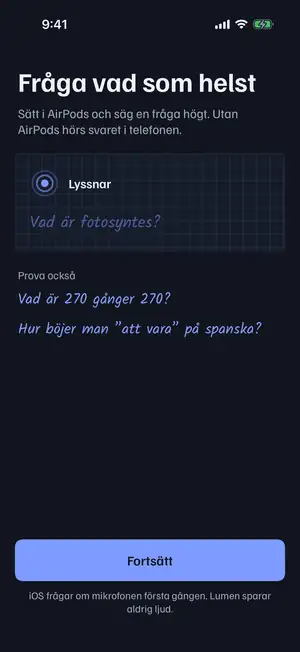
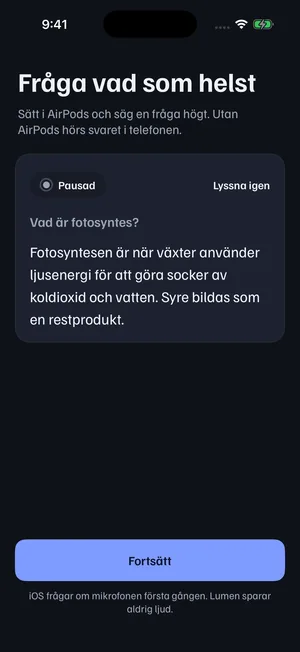
Kelly Ke20: A26 approved (R1–R6 closed; the practice exam lacks the listening badge), Ke18 step 1 uses the app's new Första frågan

diff --git a/site/index.html b/site/index.html
@@ -722,7 +722,7 @@
     <h2 id="start-h">Så kommer du igång</h2>
     <p class="lead">Tre steg. Sedan ligger telefonen i fickan och du pluggar med rösten.</p>
     <ol class="steps">
-      <li class="paper"><h3>Tryck Testa nu och fråga högt</h3><p>Inget konto. Sätt i AirPods och fråga vad som helst. Svaret hörs i örat.</p><picture><source media="(prefers-color-scheme: dark)" srcset="img/fraga-dark.webp"><img class="shot" src="img/fraga-light.webp" width="300" height="652" loading="lazy" alt="Skärmen Fråga vad som helst i appen: Lumen lyssnar, med exempelfrågan Vad är fotosyntes?"></picture></li>
+      <li class="paper"><h3>Tryck Testa nu och fråga högt</h3><p>Inget konto. Sätt i AirPods och fråga vad som helst. Svaret hörs i örat.</p><picture><source media="(prefers-color-scheme: dark)" srcset="img/fraga-dark.webp"><img class="shot" src="img/fraga-light.webp" width="300" height="652" loading="lazy" alt="Skärmen Fråga vad som helst i appen: frågan Vad är fotosyntes? och svaret i ett kort, med knappen Fortsätt."></picture></li>
       <li class="paper"><h3>Säg vilket prov du har</h3><p>Till exempel <span class="hand">”Jag har prov i biologi på fredag”</span>. Du kan också välja ämne och datum.</p><picture><source media="(prefers-color-scheme: dark)" srcset="img/steg1-dark.webp"><img class="shot" src="img/steg1-light.webp" width="300" height="652" loading="lazy" alt="Skärmen Lägg till prov i appen med årskurs, ämne och datum."></picture></li>
       <li class="paper"><h3>Säg ”Lumen, förhör mig”</h3><p>Lumen ställer frågor om det du pluggar och svarar på dina. Vill du bara ha svar trycker du Få A-svar till provet.</p><picture><source media="(prefers-color-scheme: dark)" srcset="img/steg3-dark.webp"><img class="shot" src="img/steg3-light.webp" width="300" height="652" loading="lazy" alt="Provläget lyssnar i appen: Ställ en fråga när du vill."></picture></li>
     </ol>

diff --git a/docs/STATUS.md b/docs/STATUS.md
@@ -31,7 +31,7 @@ Last updated: 2026-11-08 by Angela (builder).
 - **Provläge (Angela, D36/D38) and Målbeskrivning + Egna kommandon (Angela, D37/D39):** hands-free tutor session (VAD end-of-turn 0.8 s, barge-in, recogniser gated while we speak, auto-end after 10 min releases the microphone, `mode: tutor` with the whole session's `recent_qa`, retried as `push_to_talk` while the backend rejects `tutor`); course goals compact ≤ 1 500 chars as `goals`; keyword commands matched STT-tolerantly and sent as `commands`, spoken "spara kommando …" stored and confirmed. Green in CI (run 41817986402, 249 app tests); **untested on device**; the backend (answer v8) still rejects `mode: tutor` (400, the app falls back to `push_to_talk`) and ignores the new `goals`/`commands` fields until Kevin's D36/D37 tasks land, so the tutor style and command effects are not yet observable. Also the D35 setting *Svarslängd* (Kort / Anpassad / Utförlig → backend `length`, Settings → Answers), green in run 41819618434 (250 app tests). Reports: `reports/2026-11-04-1214-angela-plugglage.md`, `reports/2026-11-04-1214-angela-goals-commands.md`; checklist §3r–3s.
 - **Easy switch to music (Angela, D33):** Pause/Resume on the listening screen, Lock Screen (Live Activity) and a Control; pause releases the audio session, interruptions never auto-resume (also with `shouldResume`), nothing is spoken while paused. New extension `LumenControls`. Green in CI (run 41806325518); **untested on device**, and the Control's process and Lock Screen resume are untested assumptions. Report: `reports/2026-11-04-1130-angela-d33-music-switch.md`.
 - **Queue D44–D58 (Angela, 2026-11-06):** Historik and Minne on the phone (D49/D56), Scribe as default recogniser with Apple as fallback (D44), Mikrofon per mode + comparison in Diagnostics (D55), mode picker with Intervjuläge and Rizzläge on the StudyMachine (D42/D43), report + Feedback & förslag + opt-in sharing (D57), Siri phrases, Start control and spoken pause (D58), checklist §3t–3z. Also fixed: `goals`/`commands` were sent where the backend does not read them. Green in CI (run 42259754856, 315 app tests). **Nothing has run on a device.** `/feedback` and `/shared-history` are not deployed yet. **Open for Aron:** the discreet indicator was not built (see report, Concerns). Report: `reports/2026-11-06-1830-angela-queue-d49-d58.md`.
-- **Offentlig demosida (Kelly, D62/D66/D86):** Kelly: **Ke19 klar:** demorutan har D97:s två val (Förhör mig = tre Provlägesfrågor med inspelade svar utan anrop, Få A-svar till provet = livedemon, förvald); Lighthouse 99/100/100/100, 1 491 kB, bara Chromium; `reports/2026-11-10-1046-kelly-ke19-d97-pa-sidan.md`. **Ke9 klar** (en väg på demosidan: demo → "Så kommer du igång" i 3 steg → en knapp; mobil 8 533 → 4 226 px, Lighthouse 100; designunderlag för appen i `docs/design/enkel-start.md` till A18; `reports/2026-11-10-0735-kelly-ke9-enkel-start.md`; live, Pages-deploy grön). Ke10 klar (underlag för Start utan prov, Lyssnar och Mikrofon nekad; `reports/2026-11-10-0735-kelly-ke10-vanliga-vagen.md`). Ke11 klar (FAQ synlig på sidan, samma ord i demons rad; `reports/2026-11-10-0740-kelly-ke11-ord-faq.md`). Ke12b klar (designspec app mot sida i `docs/design/designspec.md`; `reports/2026-11-10-0738-kelly-ke12b-designspec.md`). **Ke12 klar:** nytt designsystem `docs/design/SYSTEM.md` (ersätter D86:s skollook i appen) med 3 loggförslag och 5 skärmar före/efter till A18; `reports/2026-11-10-0746-kelly-ke12-proffsig-pluggapp.md`. Ke17 klar: A18 **godkänd med rättelser** (Start godkänd; R1–R4 till Angela före nästa T3), `reports/2026-11-10-0805-kelly-granskning-a18.md`. Ke16 klar: annonserna i nya systemet (`docs/marketing/annonser/system/`); `reports/2026-11-10-0802-kelly-ke16-annonser-system.md`. Ke15 klar: ny delningsbild `og-lumen.png`, site 1 487 kB; `reports/2026-11-10-0800-kelly-ke15-delningsbild.md`. Ke14 klar: SYSTEM.md del 2 (fem skärmar till A18/A22); `reports/2026-11-10-0759-kelly-ke14-system-del2.md`. Ke13 klar: D97 två knappar på provkortet i SYSTEM.md och skisserna; `reports/2026-11-10-0754-kelly-ke13-d97-tva-knappar.md`. Ke13b klar: sidan i SYSTEM.md (ingen handstil eller rutpapper, Kalam bort, 1 699 kB); `reports/2026-11-10-0751-kelly-ke13-sida-nya-systemet.md`. Ke3 klar (steg med T3-bilder, animation, FAQ, sitemap). Ke2 klar (fokus till svaret efter en fråga, träffytor 44 px, taket för tal provat live med fejkad mikrofon; `reports/2026-11-08-1815-kelly-ke2-oscar-fynd.md`). Ke1 klar (riktiga Provläge-exempel med inspelat ljud, väntelisterad efter svaret, svepbara exempelfrågor på mobil, inga layoutskift, delningsbild och favicon; 61 kB vid start; `reports/2026-11-08-1640-kelly-ke1-demo.md`). Sidan är **publicerad** på https://aronstenlund-code.github.io/aronstenlund-airpods-ai/ (Pages på 2026-11-08, run 42486945392: check och deploy gröna). Live verifierat i Chromium: en riktig fråga gav svar (signup, answer, tts 200), typsnitten laddas och CORS tillåter adressen. Appens design (D86) med platshållare för foto. Ändringar i `site/` publiceras av sig själva vid push till main. **Ej testad på iPhone, Safari eller AirPods.** Kvar: riktigt foto. Rapporter: `reports/2026-11-08-1250-kelly-demo-publish.md`, `reports/2026-11-08-1450-kelly-demo-d86.md`.
+- **Offentlig demosida (Kelly, D62/D66/D86):** Kelly: **Ke20 klar:** A26 **godkänd** (R1–R6 stängda i simulatorbilder). Nytt fynd: Övningsprovet (A16) visar ingen lyssnarbricka (skyddsräcke), plus 3 mindre; `reports/2026-11-10-1133-kelly-granskning-a26.md`. Ke18 del 1: sidans steg 1 har appens nya Första frågan; steg 2–3 väntar på bilderna `addExam` och Provläget lyssnar. **Ke19 klar:** demorutan har D97:s två val (Förhör mig = tre Provlägesfrågor med inspelade svar utan anrop, Få A-svar till provet = livedemon, förvald); Lighthouse 99/100/100/100, 1 491 kB, bara Chromium; `reports/2026-11-10-1046-kelly-ke19-d97-pa-sidan.md`. **Ke9 klar** (en väg på demosidan: demo → "Så kommer du igång" i 3 steg → en knapp; mobil 8 533 → 4 226 px, Lighthouse 100; designunderlag för appen i `docs/design/enkel-start.md` till A18; `reports/2026-11-10-0735-kelly-ke9-enkel-start.md`; live, Pages-deploy grön). Ke10 klar (underlag för Start utan prov, Lyssnar och Mikrofon nekad; `reports/2026-11-10-0735-kelly-ke10-vanliga-vagen.md`). Ke11 klar (FAQ synlig på sidan, samma ord i demons rad; `reports/2026-11-10-0740-kelly-ke11-ord-faq.md`). Ke12b klar (designspec app mot sida i `docs/design/designspec.md`; `reports/2026-11-10-0738-kelly-ke12b-designspec.md`). **Ke12 klar:** nytt designsystem `docs/design/SYSTEM.md` (ersätter D86:s skollook i appen) med 3 loggförslag och 5 skärmar före/efter till A18; `reports/2026-11-10-0746-kelly-ke12-proffsig-pluggapp.md`. Ke17 klar: A18 **godkänd med rättelser** (Start godkänd; R1–R4 till Angela före nästa T3), `reports/2026-11-10-0805-kelly-granskning-a18.md`. Ke16 klar: annonserna i nya systemet (`docs/marketing/annonser/system/`); `reports/2026-11-10-0802-kelly-ke16-annonser-system.md`. Ke15 klar: ny delningsbild `og-lumen.png`, site 1 487 kB; `reports/2026-11-10-0800-kelly-ke15-delningsbild.md`. Ke14 klar: SYSTEM.md del 2 (fem skärmar till A18/A22); `reports/2026-11-10-0759-kelly-ke14-system-del2.md`. Ke13 klar: D97 två knappar på provkortet i SYSTEM.md och skisserna; `reports/2026-11-10-0754-kelly-ke13-d97-tva-knappar.md`. Ke13b klar: sidan i SYSTEM.md (ingen handstil eller rutpapper, Kalam bort, 1 699 kB); `reports/2026-11-10-0751-kelly-ke13-sida-nya-systemet.md`. Ke3 klar (steg med T3-bilder, animation, FAQ, sitemap). Ke2 klar (fokus till svaret efter en fråga, träffytor 44 px, taket för tal provat live med fejkad mikrofon; `reports/2026-11-08-1815-kelly-ke2-oscar-fynd.md`). Ke1 klar (riktiga Provläge-exempel med inspelat ljud, väntelisterad efter svaret, svepbara exempelfrågor på mobil, inga layoutskift, delningsbild och favicon; 61 kB vid start; `reports/2026-11-08-1640-kelly-ke1-demo.md`). Sidan är **publicerad** på https://aronstenlund-code.github.io/aronstenlund-airpods-ai/ (Pages på 2026-11-08, run 42486945392: check och deploy gröna). Live verifierat i Chromium: en riktig fråga gav svar (signup, answer, tts 200), typsnitten laddas och CORS tillåter adressen. Appens design (D86) med platshållare för foto. Ändringar i `site/` publiceras av sig själva vid push till main. **Ej testad på iPhone, Safari eller AirPods.** Kvar: riktigt foto. Rapporter: `reports/2026-11-08-1250-kelly-demo-publish.md`, `reports/2026-11-08-1450-kelly-demo-d86.md`.
 - **D63 + indicator (Angela, 2026-11-06):** Rizzläge flirty only behind an 18+ gate, new Socialt läge, slimmer indicator that keeps its text and Stop (D68, Aron confirmed "Behåll texten"). Green in CI (run 42268384817, 320 app tests). **Untested on device.** Both live modes fail against the server until Kevin's D63 is deployed. Report: `reports/2026-11-06-1945-angela-d63-indicator.md`.
 - **Device install without a Mac (Angela, D70, 2026-11-07):** CI archives the app unsigned and uploads `Lumen-unsigned.ipa` (artifact `Lumen-unsigned`, 14 days) on green builds of main and on manual runs; no entitlements in the repo, so nothing is dropped. Swedish steps: `docs/INSTALL-SIDELOADLY.md`. Aron installed it on an iPhone 14 Pro (iOS 26.5).
 - **Crash when the microphone starts, fixed (Angela, 2026-11-07):** the capture tap closure inherited `@MainActor` and Swift 6 trapped on Core Audio's real-time queue (9 crashes on device). Six callbacks (two audio taps, the synthesizer buffer callback, the player completion handler, the SFSpeech result and authorization handlers) are now nonisolated; a test calls each from a background queue. **D71:** Provläge never auto-ends by default. Commit `4a50887`. **Untested on device** until Aron reinstalls. Report: `reports/2026-11-07-1640-angela-crash-fix-callbacks.md`.

diff --git a/reports/2026-11-10-1133-kelly-granskning-a26.md b/reports/2026-11-10-1133-kelly-granskning-a26.md
@@ -1,0 +1,48 @@
+# Ke20 – Granskning av A26 (Kellys R1–R6) och första stegbilden på sidan (Kelly, 2026-11-10 11:33)
+
+Underlag: `reports/2026-11-10-angela-a26-kelly-r1-r6.md` och 17 bilder i `reports/2026-11-10-a26-a16-skarmbilder/`
+(simulator, iPhone 17 Pro och SE, ljust och mörkt). Granskat mot `docs/design/SYSTEM.md` och `GRANSKNING.md`.
+**Bara skärmbilder från simulatorn, inget på telefon.** Kontaktark: `reports/2026-11-10-ke20-granskning-a26/`.
+
+## Dom: **A26 godkänd.** R1–R6 är stängda.
+| # | Fynd från A18 | I bilderna |
+|---|---|---|
+| R1 | Ringarna i ansiktet, Elias liten | **Rättat.** Elias fyller kortet och ringarna sitter på hörluren, på Pro och SE och i ljust och mörkt. |
+| R2 | SE: Testa nu täcker löftena | **Rättat i mörkt läge.** Alla tre löftena och "Ljud sparas inte · Läs mer" syns ovanför Testa nu. SE ljust saknas, eftersom bilden blev hemskärmen; ta om den i nästa körning. |
+| R3 | Svart bakgrund i mörkt | **Rättat.** Intro och Första frågan har samma bakgrund över hela skärmen. |
+| R4 | "Startar …" när den är pausad | **Rättat.** Brickan säger "Pausad" och knappen "Lyssna igen", både på Första frågan och på Lyssnar. |
+| R5 | "Adam" och raden Provlyssna | **Rättat.** Röstsidan har beskrivningar, ▶ på varje rad, ✓ på den valda och talhastighet i tre steg. "Apple ·" är borta efter bilderna (Angelas egen commit, inte sett i bild). |
+| R6 | Röd Avsluta | **Rättat.** Avsluta är i bläck och Lyssna igen är blå. |
+
+Talhastighetens segmentkontroll på röstsidan är samma komponent som demosidans lägesväljare (Ke19). Appen och sidan
+ser alltså likadana ut där.
+
+## Nya fynd (till Angela via Deangelo)
+1. **Viktigt (skyddsräcke): Övningsprovet (A16, scenen `practice`) visar ingen lyssnarbricka.** Om skärmen visas
+   medan Lumen lyssnar måste brickan synas ("Lyssnar" eller "Pausad", som på Lyssnar). Är scenen bara korten
+   utan ram, så lägg till ramen i skärmbilden så att det går att granska.
+2. Resultatkortet har knappen **"Klar"**. Enligt SYSTEM.md är "klar" ett röstord (D72), och knappar som avslutar heter
+   "Avsluta" eller "Stäng". Förslag: "Stäng". Mindre.
+3. Första frågan säger "Lumen sparar **aldrig** ljud", medan introt säger "Ljud sparas inte". Använd samma ord på båda
+   ("Ljud sparas inte."). "Aldrig" är också starkare än skyddsräcket ("inget ljud sparas som standard"). Mindre.
+4. Röstsidan i mörkt läge medan rösterna hämtas: ingen rad har ✓, eftersom den valda rösten inte har laddats än. Visa
+   den valda rösten med ✓ direkt, eller en rad med "Hämtar …" och ✓. Mindre.
+5. Symbolen i introt är fortfarande radiovågorna. Den byts när Aron har valt logga (A, B eller C, Ke12). Ingen åtgärd
+   nu.
+
+## Bilder som behövs till sidan (Ke18)
+Sidans steg 2 och 3 är fortfarande i gamla stilen, med handstil, rutpapper och röd Avsluta. Bilder som saknas:
+- `addExam`, alltså "Har du prov snart?" (A22), Pro ljust och mörkt.
+- Lyssnar i **Provläget** med brickan "Lyssnar" (inte Pausad), Pro ljust och mörkt. A26:s `listening` är läget
+  Frågor och pausat.
+- SE ljust `intro` (för R2).
+
+## Gjort på sidan (Ke18, del 1)
+- **Steg 1** ("Tryck Testa nu och fråga högt") har nu A26:s Första frågan i det nya systemet, i ljust och mörkt
+  (`site/img/fraga-*.webp`, 300 × 652, 14 och 13 kB). Alt-texten beskriver det som syns: frågan, svaret i ett kort och
+  Fortsätt. Bilden visar "Pausad", eftersom simulatorn saknar mikrofon. Det är sant mot appen.
+- Steg 2 och 3 väntar på bilderna ovan.
+- Kontrollerat i Chromium på 1280 px, mörkt läge (bild 5 i mappen).
+
+## Till Aron
+- Välj logga A, B eller C (`docs/design/SYSTEM.md` §5). Den behövs på sidan, i appen och i delningsbilden.

diff --git a/prompts/queue/BOARD.md b/prompts/queue/BOARD.md
@@ -18,4 +18,4 @@ Kolumnerna:
 | Angela (app) | Opus 5.5 (claude-opus-5-5) | low (sessionens inställning) | stående uppgift (PLAN 2b); A3 väntar på K6 | jobbar | A26 (Kellys R1–R6), A16 (övningsprov med rösten) och A19 (studieplan, sammanfattning, länkar) klara, grönt i CI 42796721366; ej på enhet. 10 punkter i dag | 2026-11-10 12:45 | 10 punkter, komprimerad, byt snart (överlämning `docs/HANDOVER-angela.md`) |
 | Oscar (QA) | Opus 5.5 (claude-opus-5-5) | low (sessionens inställning) | – (gratis offlinepunkter genomgångna; omtest när Kevin rättat K21b, calc-parenteser, K22) | väntar på Kevin; **BLOCKER K21b: 18/40 nya krisfall tysta i Auto**; Aron: lägg inte in service-role-hemligheten (K22) | O34: verklighetsbanken +44 fall (körs när budget finns). O33 klar: klocka/zoner/datum i kod 11/11 rätt. O32 klar: BUGG, calc.ts tar bort parenteser ('(12+8)*2' blir 28 och läses upp). O31 klar: K19 länkbegäran känns igen 5/15, domänskyddet 9/9. O30 klar: ekofiltret äter 4/8 följdfrågor som citerar svaret. O29 klar: telefonskyddet 17/22 (Bris och 90101 läses som stora tal). O28 klar: minnesfiltret (server+app) stoppar 5/27 känsliga minnen. O27 klar: Rizz-filtret i kod stoppar 0/25 nya olämpliga rader (bara modellen skyddar). O26 klar: uppläsning av tal 34/45 ('6/6' blir 'sex/sex', 'ett bok'). O24 klar: frågor om Lumen 5/20, 'Erik 14 poäng' blir 'Erik den fjortonde poäng' (8/10 vanliga namn). O25 klar: K22-rensningen tar bort 3/22 personuppgifter och hoppar över 2/20 känsliga rader, och pushar själv till det publika repot (hemligheten är inte inlagd, så inget har läckt). O23 (O17b) klar: krissvaret 20/40, tysta 18/40, falska larm 10/40. O22, O21, O17, O20, O19, O11, O13 del 1, O18, O15, O12, O14 klara | 2026-11-10 11:12 | 24 punkter, komprimerad, byt snart (överlämning `docs/HANDOVER-OSCAR.md`) |
 | Toby (apptest) | Opus 5.5 (claude-opus-5-5) | medium | T9 skärmrunda efter A18/A22 + T8b del 1 (Lyssnar efter mikrofonfrågan) | jobbar, byt snart | T9: turen följer A18/A22:s knappord (första körningen fastnade på 'Fortsätt', turens fel) | 2026-11-10 10:05 | komprimerad, byt snart (T7, T8 klara, T9 pågår) |
-| Kelly (demosida) | Opus 5.5 (claude-opus-5-5) | low (sessionens inställning) | Ke18 väntar på Angelas A26; under tiden stående uppgift (sidan = appen) | jobbar | Ke19 klar: demorutan har D97:s två val (Förhör mig med inspelade Provlägessvar, Få A-svar = livedemon), Lighthouse 99/100/100/100. API 0 USD | 2026-11-10 10:47 | 12 punkter (Ke9–Ke19, Ke12b, Ke13b), en komprimering, byt snart, fortsätter till 18:00 |
+| Kelly (demosida) | Opus 5.5 (claude-opus-5-5) | low (sessionens inställning) | Ke18 steg 2–3 väntar på bilderna addExam och Provläget lyssnar (från Angela); under tiden stående uppgift | jobbar | Ke20 klar: A26 godkänd, R1–R6 stängda; nytt: Övningsprovet saknar lyssnarbricka (skyddsräcke). Ke18 steg 1 bytt. API 0 USD | 2026-11-10 11:35 | 13 punkter (Ke9–Ke20, Ke12b, Ke13b), en komprimering, byt snart, fortsätter till 18:00 |

diff --git a/prompts/queue/kelly.md b/prompts/queue/kelly.md
@@ -76,6 +76,8 @@ Aron (2026-11-08): demosidan måste bli väldigt bra.
 
 - [x] klar 2026-11-10 08:49 → reports/2026-11-10-0805-kelly-granskning-a18.md (godkänd med rättelser R1–R6) **Ke17 – Stående uppgift (PLAN 2c): granskningslista och granskning av A18** (effort: medium, Kelly själv). `docs/design/GRANSKNING.md`: punkterna jag kontrollerar på varje A-punkt som ändrar utseendet (SYSTEM.md, D97, samtycke, D57, ljust/mörkt/SE). Sedan granskningen av A18 när Angelas skärmbilder finns i `reports/`.
 
-- [ ] **Ke18 – Stående uppgift: sidans tre stegbilder från appens nya utseende** (effort: low, Kelly själv). Beror på: Angelas rättelser R1–R4 ur `reports/2026-11-10-0805-kelly-granskning-a18.md` och nya skärmbilder (även "Har du prov snart?"). Byt `site/img/fraga-*`, `steg1-*`, `steg3-*` mot nya bilder (WebP, 300 px bred), samma tre steg. `site/` ≤ 2 MB.
+- [ ] delvis 2026-11-10 11:35 (steg 1 bytt, steg 2–3 väntar på bilderna `addExam` och Provläget lyssnar, se `reports/2026-11-10-1133-kelly-granskning-a26.md`) **Ke18 – Stående uppgift: sidans tre stegbilder från appens nya utseende** (effort: low, Kelly själv). Beror på: Angelas rättelser R1–R4 ur `reports/2026-11-10-0805-kelly-granskning-a18.md` och nya skärmbilder (även "Har du prov snart?"). Byt `site/img/fraga-*`, `steg1-*`, `steg3-*` mot nya bilder (WebP, 300 px bred), samma tre steg. `site/` ≤ 2 MB.
 
 - [x] klar 2026-11-10 10:47 → reports/2026-11-10-1046-kelly-ke19-d97-pa-sidan.md **Ke19 – Demosidan som samma produkt som appen: D97:s två val i demorutan** (effort: low, Aron 2026-11-10). "Förhör mig" och "Få A-svar till provet" med samma namn och rader som provkortet. Få A-svar = dagens livedemo. Förhör mig = tre frågor ur Provläget med de inspelade svaren, utan nya anrop. `site/` ≤ 2 MB, Lighthouse ≥ 95.
+
+- [x] klar 2026-11-10 11:35 → reports/2026-11-10-1133-kelly-granskning-a26.md (A26 godkänd, R1–R6 stängda, 4 nya fynd varav 1 skyddsräcke) **Ke20 – Granska A26:s skärmbilder** (effort: low, PLAN 2c, Aron 2026-11-10).
